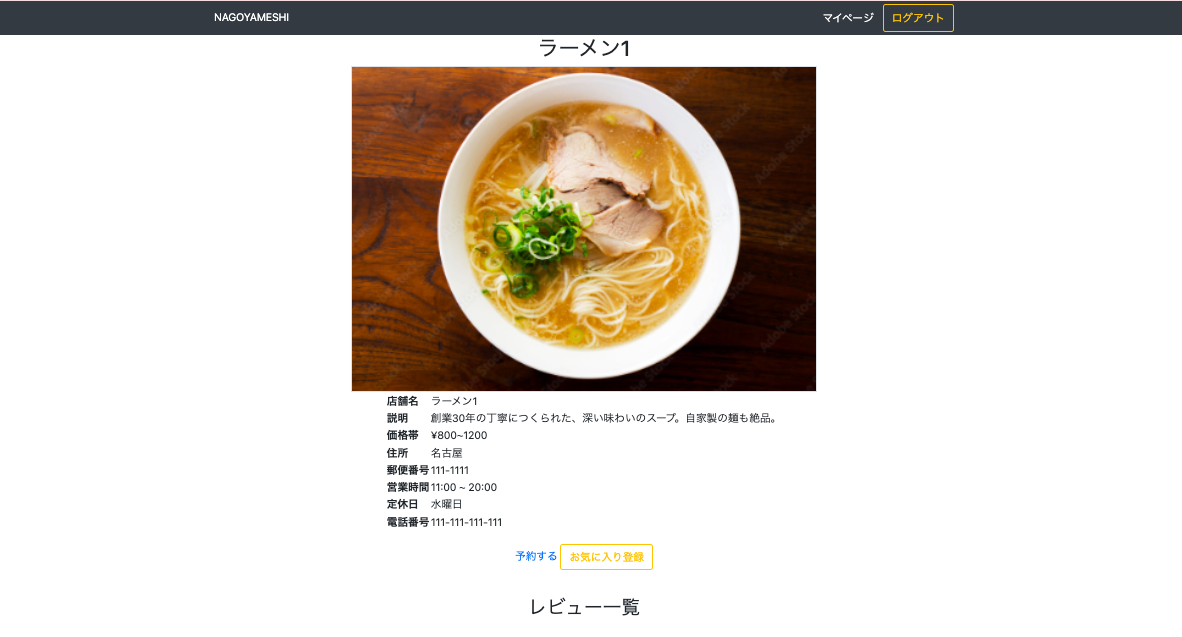
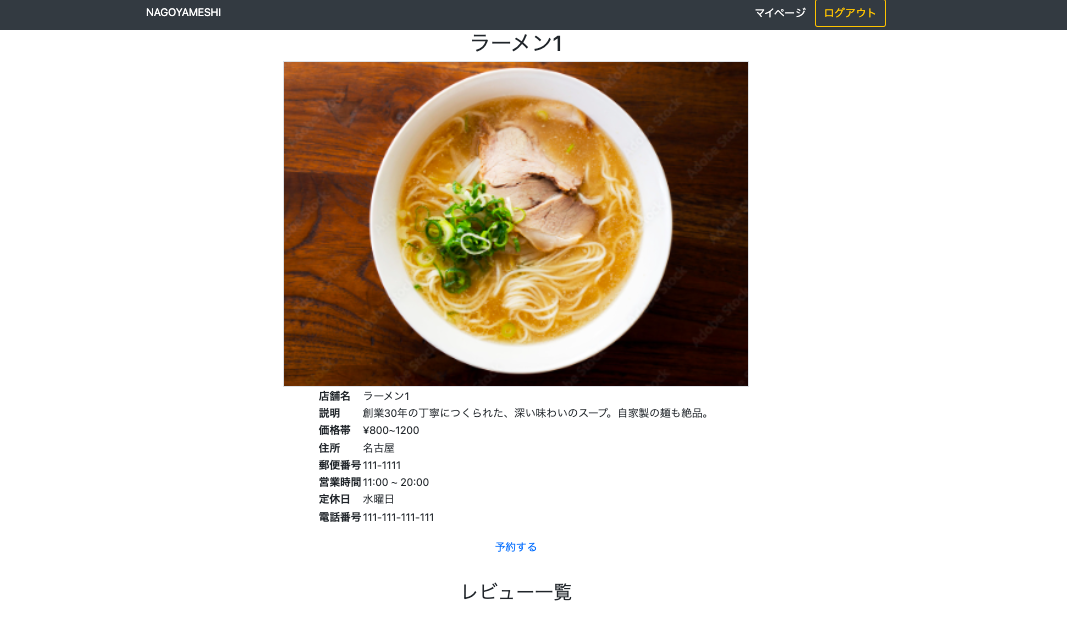
店舗詳細画面修正

Changed region(s): [[0.0, 0.0, 1.0, 0.8581], [0.433, 0.9194, 0.5567, 0.9806], [0.433, 0.8274, 0.5567, 0.9194]]

diff --git a/templates/pages/restaurant_detail.html b/templates/pages/restaurant_detail.html
@@ -50,7 +50,7 @@
 		<input type="hidden" name="item_pk" value="{{ restaurant.pk }}" />   <!--object→restaurant-->
 		<a href="{% url 'nagoyameshi:reservation' restaurant.pk %}">予約する</a>
 	    <!--<a href="{% url 'nagoyameshi:reservation' restaurant.pk %}" class="btn btn-primary"> -->
-		<input class="btn btn-outline-warning" type="submit" value="お気に入り登録"/>
+		<!-- <input class="btn btn-outline-warning" type="submit" value="お気に入り登録"/> -->
 	</form>
 </div>
 
